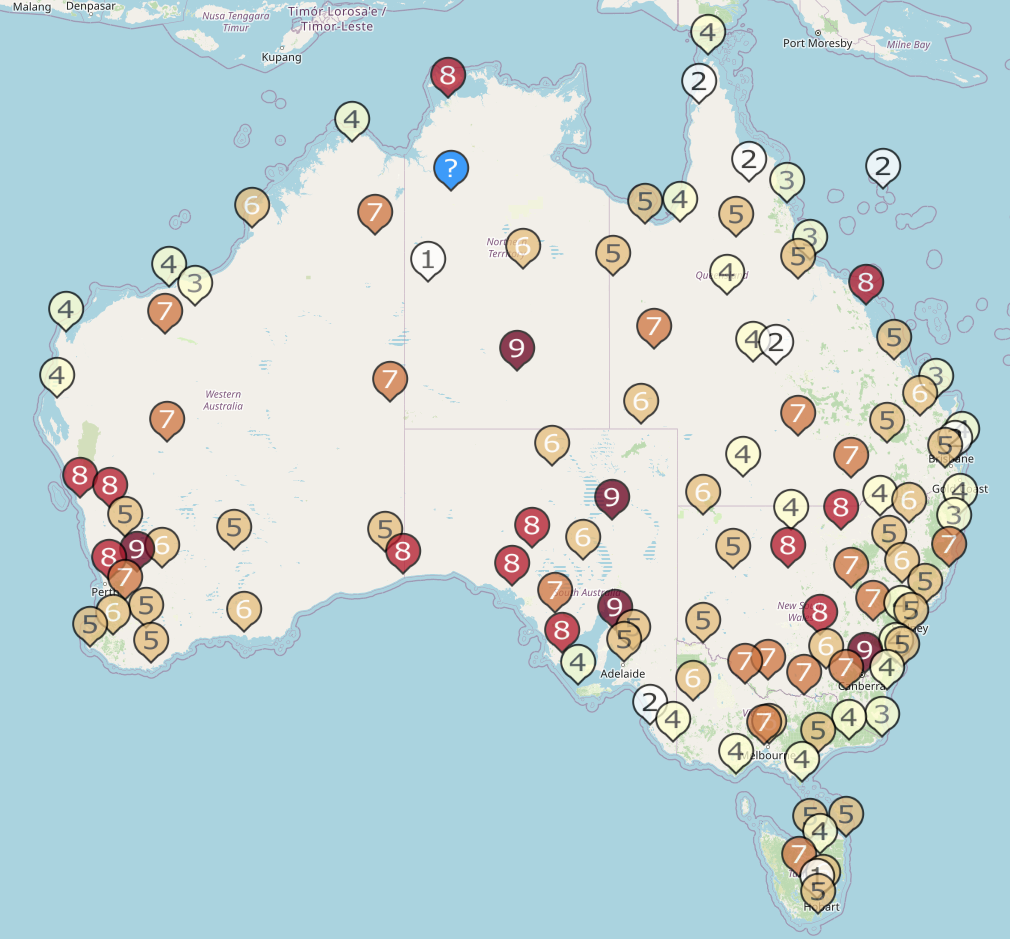
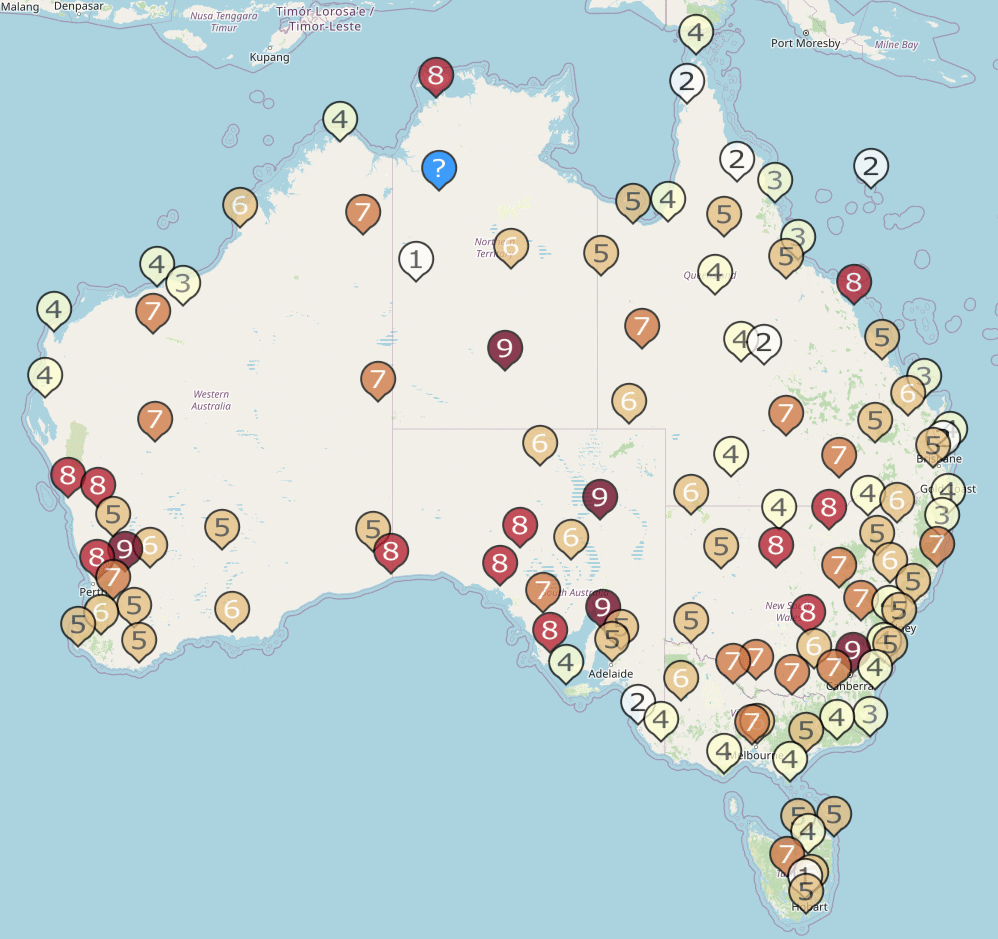
Improve the acorn-sat post

diff --git a/ClimateExplorer.Visualiser/wwwroot/blog/meta/2022/11/19/acorn-sat-2.3.html b/ClimateExplorer.Visualiser/wwwroot/blog/meta/2022/11/19/acorn-sat-2.3.html
@@ -10,7 +10,7 @@
     <meta charset="utf-8">
 
 <!-- begin _includes/seo.html --><title>ACORN-SAT version 2.3 - Climate Explorer</title>
-<meta name="description" content="ACORN-SAT version 2.3 was release 2022-11-18. Version 2.3 has temperatures records from 1910 up until the end of 2021 for 112 locations around Australia.">
+<meta name="description" content="ACORN-SAT version 2.3 was release 2022-11-18. Version 2.3 has temperatures records from 1910 up until the end of 2021, for the 112 locations around Australia included in ACORN-SAT.">
 
 
 
@@ -21,7 +21,7 @@
 <meta property="og:url" content="/blog/meta/2022/11/19/acorn-sat-2.3.html">
 
 
-  <meta property="og:description" content="ACORN-SAT version 2.3 was release 2022-11-18. Version 2.3 has temperatures records from 1910 up until the end of 2021 for 112 locations around Australia.">
+  <meta property="og:description" content="ACORN-SAT version 2.3 was release 2022-11-18. Version 2.3 has temperatures records from 1910 up until the end of 2021, for the 112 locations around Australia included in ACORN-SAT.">
 
 
 
@@ -141,7 +141,7 @@
 
   <article class="page" itemscope itemtype="https://schema.org/CreativeWork">
     <meta itemprop="headline" content="ACORN-SAT version 2.3">
-    <meta itemprop="description" content="ACORN-SAT version 2.3 was release 2022-11-18. Version 2.3 has temperatures records from 1910 up until the end of 2021 for 112 locations around Australia.">
+    <meta itemprop="description" content="ACORN-SAT version 2.3 was release 2022-11-18. Version 2.3 has temperatures records from 1910 up until the end of 2021, for the 112 locations around Australia included in ACORN-SAT.">
     <meta itemprop="datePublished" content="2022-11-19T19:00:00+11:00">
     
 
@@ -158,9 +158,11 @@
 
       <section class="page__content" itemprop="text">
         
-        <p>ACORN-SAT version 2.3 was release 2022-11-18. Version 2.3 has temperatures records from 1910 up until the end of 2021 for 112 locations around Australia.</p>
+        <p>ACORN-SAT version 2.3 was release 2022-11-18. Version 2.3 has temperatures records from 1910 up until the end of 2021, for the 112 locations around Australia included in ACORN-SAT.</p>
 
-<p>The map below (from <a href="https://climateexplorer.net/">ClimateExplorer</a>) shows heating scores calculated from version 2.3 of ACORN-SAT. As expected, Canberra is no longer the only location that has a heating score of 9. There are now 5 sites that share that score. Heating score is a relative metric; it’s the result of comparing all warming indexes with all others in the dataset. The four other sites were boosted to a 9 because they had warmer than average temperatures in 2021, whereas Canberra had its first cooler than average temperature since 1996 (25 years). That reduced Canberra’s warming index from 1.8°C to 1.7°C.</p>
+<p>The map below (from <a href="https://climateexplorer.net/">ClimateExplorer</a>) shows heating scores calculated from version 2.3 of ACORN-SAT. Canberra is no longer the only location that has a heating score of 9. There are now 5 sites that share that score.</p>
+
+<p>Heating score is a relative metric; it’s the result of comparing all warming indexes with all others in the dataset. The other sites (<a href="https://climateexplorer.net/location/alice-springs">Alice Springs</a>, <a href="https://climateexplorer.net/location/cunderdin">Cunderdin</a>, <a href="https://climateexplorer.net/location/marree">Marree</a>, <a href="https://climateexplorer.net/location/snowtown">Snowtown</a>) were boosted to a 9 because they had warmer than average temperatures in 2021. Canberra had its first cooler than average temperature since 1996 (25 years). That reduced Canberra’s warming index from 1.8°C to 1.7°C.</p>
 
 <p><img src="/blog/assets/australia-heating-scores-acorn-sat-2.3.png" alt="Australian heating scores from ACORN-SAT 2.3" /></p>
 

diff --git a/ClimateExplorer.Visualiser/wwwroot/blog/assets/js/lunr/lunr-store.js b/ClimateExplorer.Visualiser/wwwroot/blog/assets/js/lunr/lunr-store.js
@@ -18,7 +18,7 @@ var store = [{
         "teaser": null
       },{
         "title": "ACORN-SAT version 2.3",
-        "excerpt":"ACORN-SAT version 2.3 was release 2022-11-18. Version 2.3 has temperatures records from 1910 up until the end of 2021 for 112 locations around Australia. The map below (from ClimateExplorer) shows heating scores calculated from version 2.3 of ACORN-SAT. As expected, Canberra is no longer the only location that has a...","categories": ["meta"],
+        "excerpt":"ACORN-SAT version 2.3 was release 2022-11-18. Version 2.3 has temperatures records from 1910 up until the end of 2021, for the 112 locations around Australia included in ACORN-SAT. The map below (from ClimateExplorer) shows heating scores calculated from version 2.3 of ACORN-SAT. Canberra is no longer the only location that...","categories": ["meta"],
         "tags": [],
         "url": "/blog/meta/2022/11/19/acorn-sat-2.3.html",
         "teaser": null

diff --git a/ClimateExplorer.Visualiser/wwwroot/blog/index.html b/ClimateExplorer.Visualiser/wwwroot/blog/index.html
@@ -167,9 +167,7 @@
     
 
 
-    <p class="archive__item-excerpt" itemprop="description">ACORN-SAT version 2.3 was release 2022-11-18. Version 2.3 has temperatures records from 1910 up until the end of 2021 for 112 locations around Australia.
-
-</p>
+    <p class="archive__item-excerpt" itemprop="description">ACORN-SAT version 2.3 was release 2022-11-18. Version 2.3 has temperatures records from 1910 up until the end of 2021, for the 112 locations around Australia...</p>
   </article>
 </div>
 
